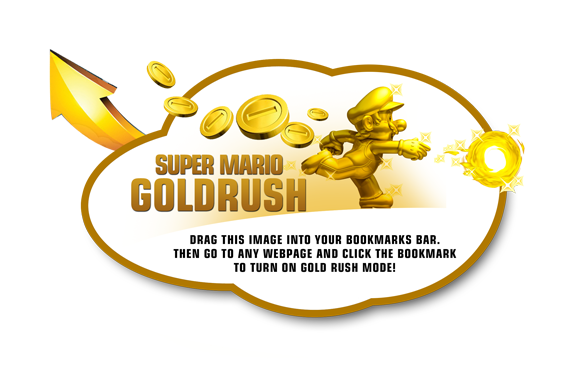
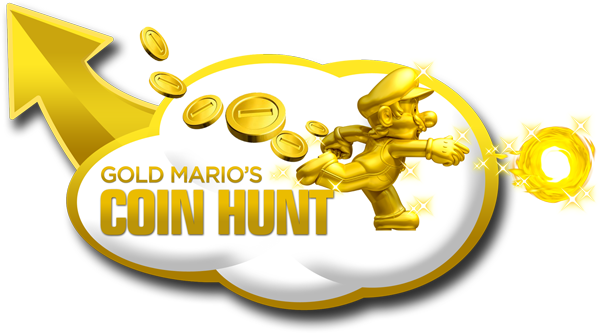
added nick.com to the demo under test2.html also got a better bookmark

diff --git a/extension/index.html b/extension/index.html
@@ -81,7 +81,7 @@
             
                 //s3.amazonaws.com/newe1344-gsp/nintendo/js/amalgam.js
             -->
-            <a href="javascript:var%20GETTHEGOLDVERSION='2.0';var%20jsURL='//localhost.com/GSP/clients/nintendo/get-the-gold/extension/js/amalgam.js';var%20s%20=%20document.createElement('script');s.type='text/javascript';document.body.appendChild(s);s.src=jsURL;var%20body=document.getElementsByTagName('body')[0];var%20img=document.createElement('img');img.setAttribute('id','gold-preloader');img.src='http://newe1344-gsp.s3.amazonaws.com/nintendo/images/prompt.png';img.style.position='absolute';img.style.top='49%';img.style.left='49%';img.style.marginLeft='-249px';img.style.zIndex='999999999';body.appendChild(img);void(0);" title="Drag this image to your bookmarks toolbar to get started collecting gold!">
+            <a href="javascript:var%20GETTHEGOLDVERSION='2.0';var%20jsURL='//s3.amazonaws.com/newe1344-gsp/nintendo/js/amalgam.js';var%20s%20=%20document.createElement('script');s.type='text/javascript';document.body.appendChild(s);s.src=jsURL;var%20body=document.getElementsByTagName('body')[0];var%20img=document.createElement('img');img.setAttribute('id','gold-preloader');img.src='http://newe1344-gsp.s3.amazonaws.com/nintendo/images/prompt.png';img.style.position='absolute';img.style.top='49%';img.style.left='49%';img.style.marginLeft='-249px';img.style.zIndex='999999999';body.appendChild(img);void(0);" title="Drag this image to your bookmarks toolbar to get started collecting gold!">
                 <img src="https://s3.amazonaws.com/newe1344-gsp/nintendo/images/bookmark.png" alt="Get the Gold" />
             </a>
         </div>

diff --git a/extension/js/amalgam.js b/extension/js/amalgam.js
@@ -436,7 +436,8 @@ var scene = function() {
                     mouseX: evt.pageX - oX,
                     mouseY: evt.pageY - (2 * oY)
                 } 
-            };        
+            }; 
+            c.addCoins(50);
             mc.clickCanvas(e);
             
             $(this).hide();
@@ -480,7 +481,7 @@ var scene = function() {
     // //s3.amazonaws.com/newe1344-gsp/nintendo/css/style.css
     // //localhost.com/GSP/clients/nintendo/get-the-gold/extension/css/style.css
         
-    css = '<link rel="stylesheet" type="text/css" href="//localhost.com/GSP/clients/nintendo/get-the-gold/extension/css/style.css" />';
+    css = '<link rel="stylesheet" type="text/css" href="//s3.amazonaws.com/newe1344-gsp/nintendo/css/style.css" />';
 
     pre =   '<div id="gold" class="hidden">';
     pre +=      '<div id="gold-wrap">';

diff --git a/extension/test2.html b/extension/test2.html
@@ -20,14 +20,14 @@ Author: Mike Newell © 2012
             }
             
             .hidden-star {
-                top: 207px;
-                right: 202px;
+                top: 470px;
+                right: 117px;
             }
         </style>
     </head>
     <body>
         <div id="wrap">
-            <img src="http://newe1344-gsp.s3.amazonaws.com/nintendo/images/site-screen.jpg" />
+            <img src="http://newe1344-gsp.s3.amazonaws.com/nintendo/images/site-screen2.jpg" />
         </div>
         <script src="https://ajax.googleapis.com/ajax/libs/jquery/1.7.2/jquery.min.js"></script>
     </body>

diff --git a/extension/css/style.css b/extension/css/style.css
@@ -283,10 +283,10 @@ body {
     z-index: 9999999;
 }
 
-.hidden-star {
+/*.hidden-star {
     top: 207px;
     right: 202px;
-}
+}*/
 
 .star {
     width: 97px;
